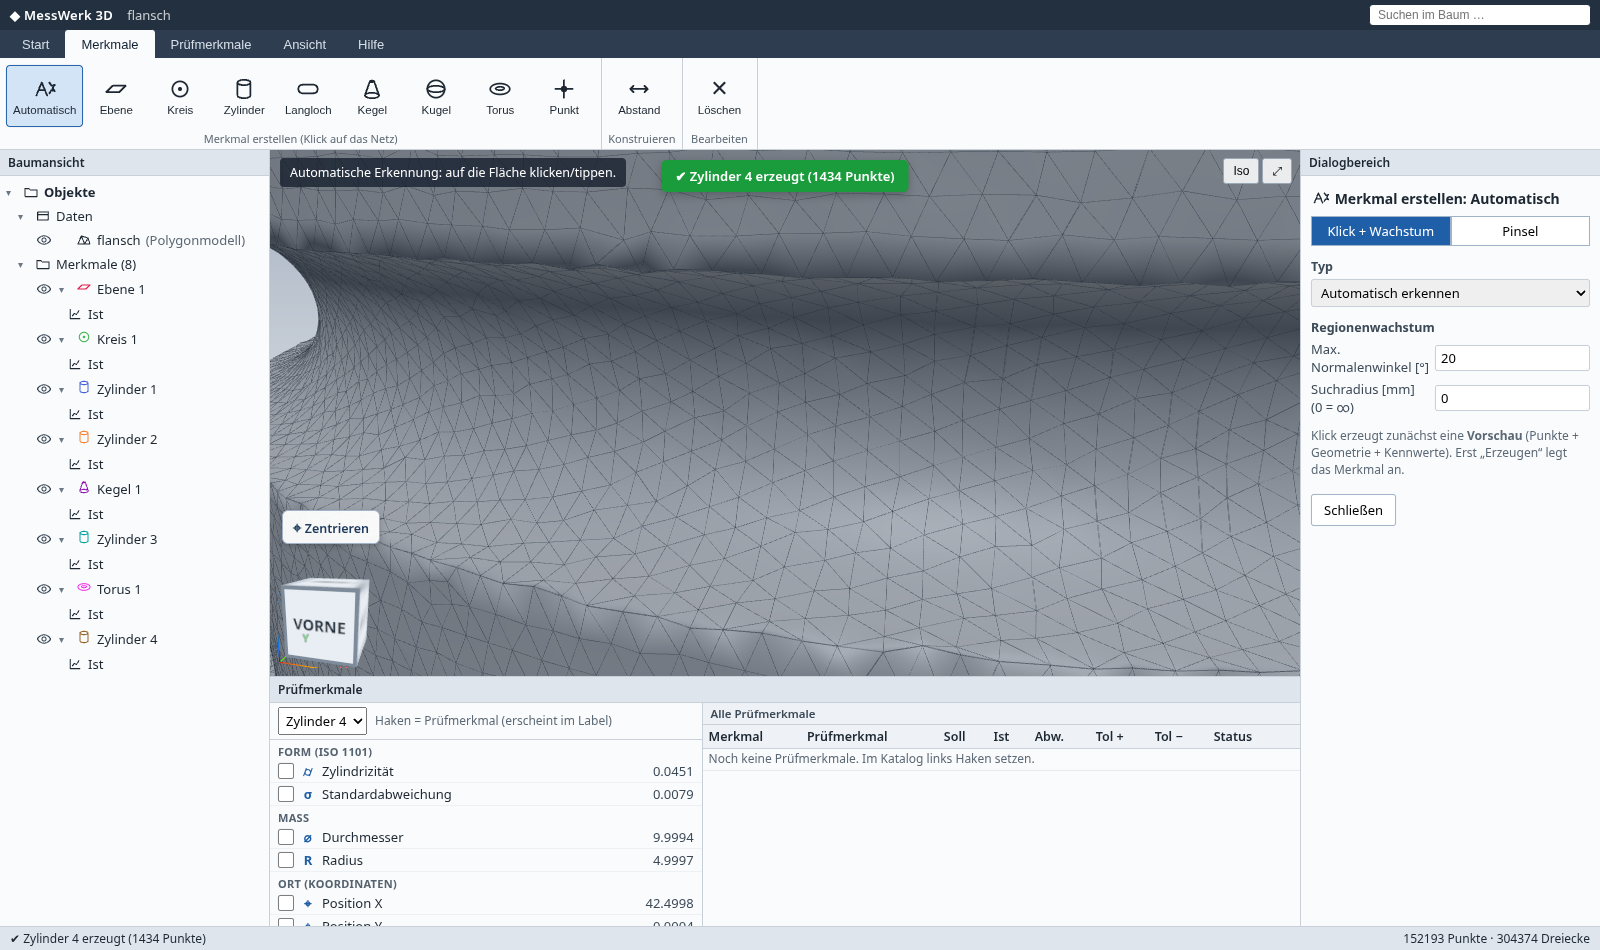
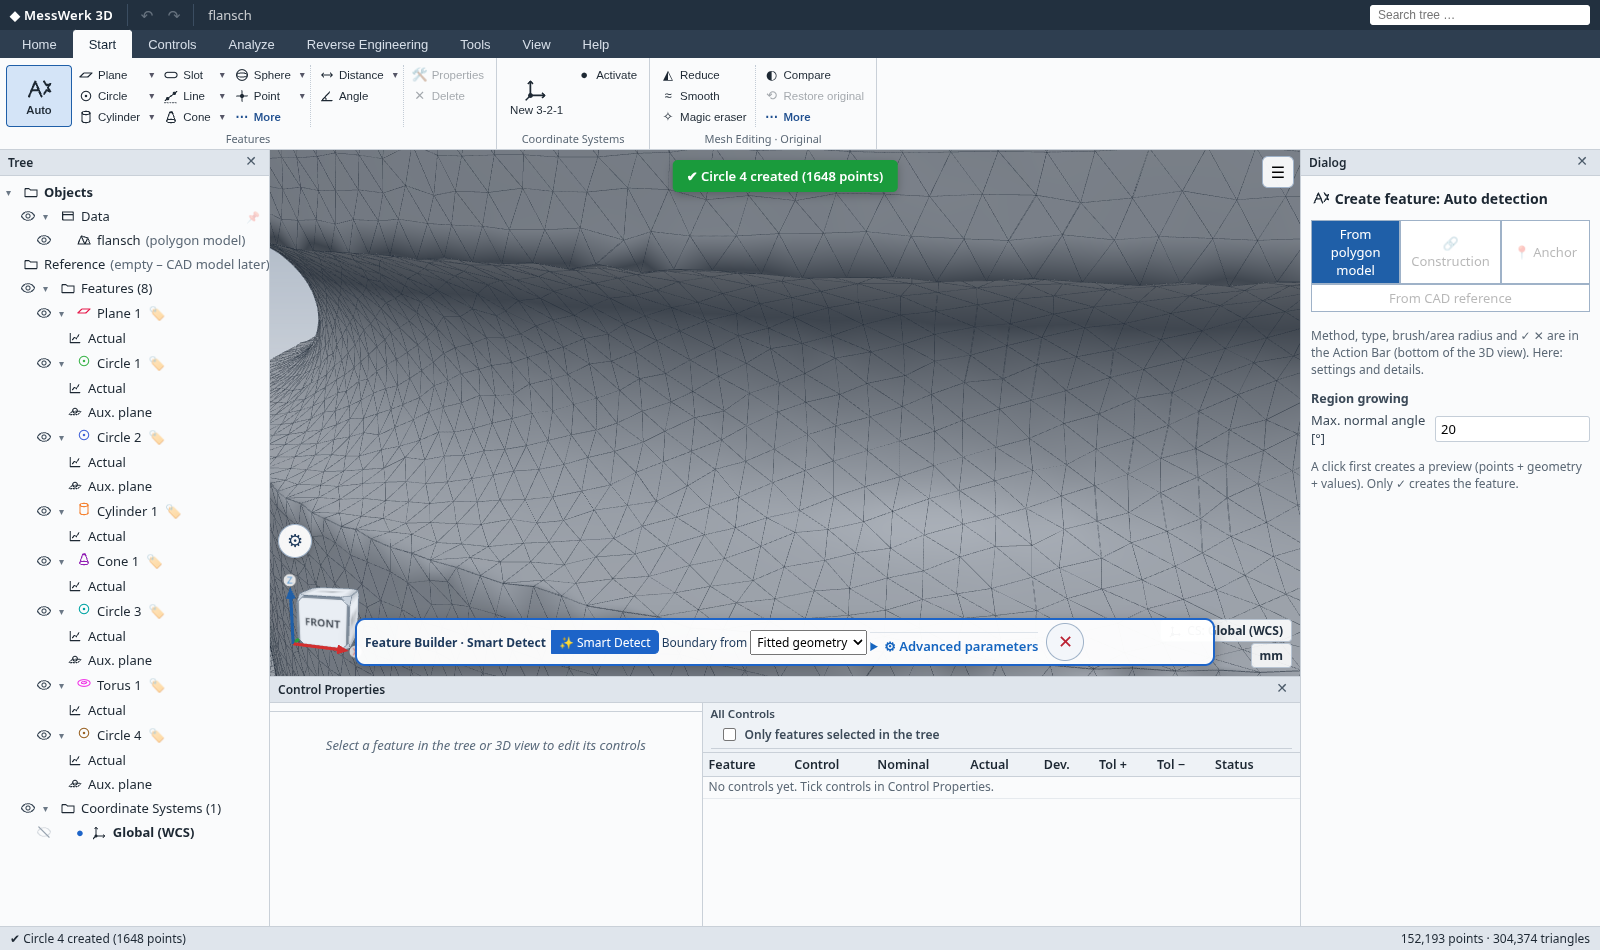
0.40: samples-check for new sample set (index.json, whatsnew, cp-ok); ui-check imports beispielteil; whats-new no longer shown to first-time visitors

diff --git a/src/changelog.ts b/src/changelog.ts
@@ -254,12 +254,14 @@ export function showWhatsNew() {
   bindEscClose(el, close); bindSwipeClose(el.querySelector('.wn-box')!, close, el.querySelector('.wn-box'));
   document.body.appendChild(el);
 }
+// 0.40: snapshot at module load – the app writes its own mw-* keys during start-up, which made first-time visitors look like returning users
+const HAD_DATA = (() => { try { return Object.keys(localStorage).some((k) => k.startsWith('mw-') && k !== KEY); } catch { return false; } })();
 /** Show the changelog once per new revision (only for returning users). */
 export function maybeShowWhatsNew() {
   try {
     const seen = localStorage.getItem(KEY);
     // returning user = stored revision differs, or app data from an earlier version without the key
-    const returning = seen ? seen !== BUILD.version : Object.keys(localStorage).some((k) => k.startsWith('mw-') && k !== KEY);
+    const returning = seen ? seen !== BUILD.version : HAD_DATA;
     localStorage.setItem(KEY, BUILD.version);
     if (returning && BUILD.version !== 'dev') showWhatsNew();
   } catch { /* ignore */ }
